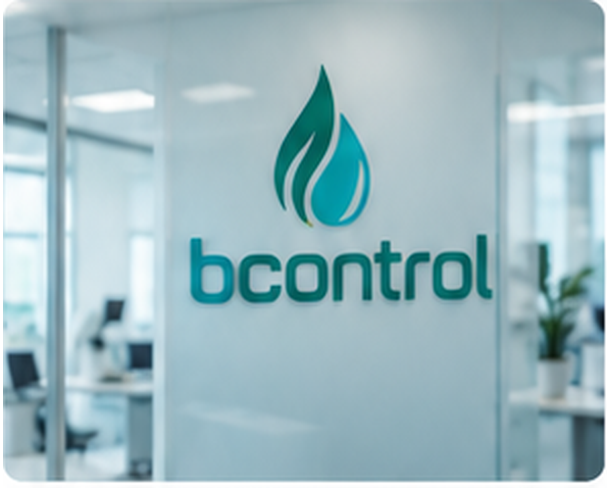
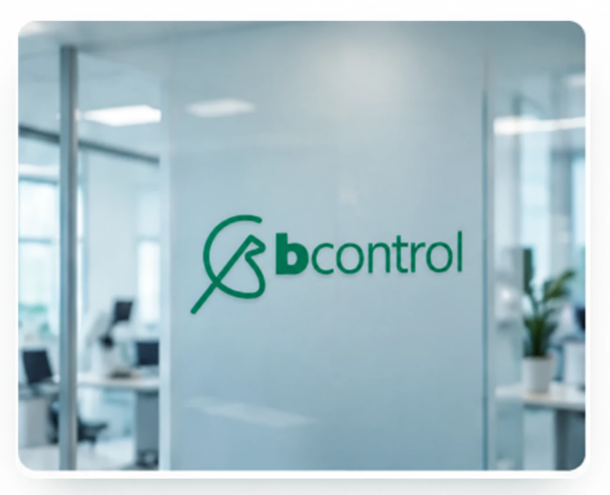
Adicionar upload de imagem pelo painel + trocar foto do escritório
Upload de imagem direto pelo navegador para os 4 campos de foto/logo
(Serviços, Equipe, Clientes, Segmentos), sem precisar de FTP nem
conhecimento técnico — pedido porque quem opera o painel no dia a dia não
tem acesso à hospedagem:

- admin/edit.php: nova função admin_process_image_upload() — valida a
  imagem enviada (GD), corrige rotação EXIF de fotos de celular,
  redimensiona para o tamanho real de exibição por campo (sem ampliar
  imagens menores), e grava .webp + o formato de reserva correto por
  conteúdo (.png preservando transparência para logos/fotos, .jpg com
  fundo branco para os segmentos) — mesmo padrão já usado manualmente nas
  rodadas anteriores.
- Nome de arquivo novo a cada upload (sufixo único) em vez de regravar o
  mesmo nome: evita qualquer problema de cache do navegador sem precisar
  tocar em ASSET_VERSION/código, e os arquivos antigos desse campo são
  apagados automaticamente.
- schema.php: campos image/logo dos 4 conteúdos passam de 'string' (só
  caminho) para o novo tipo 'image' (upload + redimensionamento).
  Continua aceitando edição manual do caminho para quem preferir subir a
  imagem já tratada por FTP.

Também trocada a foto do escritório (seção de Orçamento) pela nova
enviada pelo cliente — assets/escritorio.png/.webp, ?v=5.

Testado localmente: redimensionamento correto, não ampliação de imagem
menor, preservação de transparência em PNG, achatamento para branco no
fallback .jpg, e remoção dos arquivos antigos após a troca.
[…]

diff --git a/index.html b/index.html
@@ -254,7 +254,7 @@
       <div class="field-msg" id="formOrcMsg" role="status"></div>
     </form>
     <div class="office">
-      <picture><source srcset="assets/escritorio.webp?v=4" type="image/webp"><img src="assets/escritorio.png?v=4" alt="Escritório bcontrol" width="610" height="490" loading="lazy"></picture>
+      <picture><source srcset="assets/escritorio.webp?v=5" type="image/webp"><img src="assets/escritorio.png?v=5" alt="Escritório bcontrol" width="610" height="495" loading="lazy"></picture>
       <div class="addr">Rodovia Tapir Rocha, 7000 — Sala 170/174, Viamão/RS · TECNOPUC · <span data-phone-display>(51) 3434-2401</span></div>
     </div>
   </div>

diff --git a/admin/admin.css b/admin/admin.css
@@ -24,6 +24,7 @@ textarea{resize:vertical}
 fieldset{border:1px solid var(--line);border-radius:10px;padding:14px;margin:0}
 fieldset > label{font-size:14px;margin-bottom:10px}
 .hint{font-size:12px;color:#6b7d78;margin:4px 0 0}
+.img-preview{display:block;max-width:160px;max-height:160px;object-fit:contain;border:1px solid var(--line);border-radius:8px;padding:4px;background:#fff;margin-bottom:8px}
 .list-field{border-top:1px dashed var(--line);padding-top:14px;margin-top:6px}
 .list-container{display:flex;flex-direction:column;gap:12px;margin-bottom:10px}
 .list-item{background:var(--paper);border:1px solid var(--line);border-radius:10px;padding:12px}

diff --git a/admin/edit.php b/admin/edit.php
@@ -53,6 +53,110 @@ function admin_handle_upload(array $fileInfo, string $uploadDirRel): ?string {
   return $destRel;
 }
 
+/**
+ * Recebe uma imagem enviada pelo navegador, redimensiona (sem aumentar imagens já
+ * menores), corrige a rotação de fotos de celular (EXIF) e grava duas versões —
+ * .webp (leve) e o formato de fallback (.png, preservando transparência de logos, ou
+ * .jpg) — exatamente como o resto do site já espera via o helper picture() do main.js.
+ * Apaga os arquivos antigos desse mesmo campo (se houver) para não acumular lixo.
+ */
+function admin_process_image_upload(array $fileInfo, string $uploadDirRel, int $maxWidth, string $fallbackExt, ?string $oldBasePath): ?string {
+  if (empty($fileInfo['name']) || ($fileInfo['error'] ?? UPLOAD_ERR_NO_FILE) !== UPLOAD_ERR_OK) return null;
+  if (!function_exists('imagecreatetruecolor')) {
+    throw new RuntimeException('O servidor não tem a extensão de imagens (GD) do PHP habilitada. Peça ao suporte da hospedagem para ativá-la.');
+  }
+  if (!is_uploaded_file($fileInfo['tmp_name'])) {
+    throw new RuntimeException('Upload inválido.');
+  }
+
+  $info = @getimagesize($fileInfo['tmp_name']);
+  if (!$info) {
+    throw new RuntimeException('O arquivo enviado não é uma imagem válida.');
+  }
+  $mime = $info['mime'];
+  switch ($mime) {
+    case 'image/jpeg': $im = @imagecreatefromjpeg($fileInfo['tmp_name']); break;
+    case 'image/png': $im = @imagecreatefrompng($fileInfo['tmp_name']); break;
+    case 'image/webp': $im = @imagecreatefromwebp($fileInfo['tmp_name']); break;
+    case 'image/gif': $im = @imagecreatefromgif($fileInfo['tmp_name']); break;
+    default:
+      throw new RuntimeException('Formato de imagem não suportado. Envie um arquivo JPG, PNG ou WEBP.');
+  }
+  if (!$im) {
+    throw new RuntimeException('Não foi possível ler a imagem enviada (arquivo corrompido?).');
+  }
+
+  // Corrige fotos de celular giradas (comum em JPEG com metadado de orientação).
+  if ($mime === 'image/jpeg' && function_exists('exif_read_data')) {
+    $exif = @exif_read_data($fileInfo['tmp_name']);
+    $orientation = $exif['Orientation'] ?? 1;
+    if ($orientation === 3) { $im = imagerotate($im, 180, 0); }
+    elseif ($orientation === 6) { $im = imagerotate($im, -90, 0); }
+    elseif ($orientation === 8) { $im = imagerotate($im, 90, 0); }
+  }
+
+  imagealphablending($im, true);
+  imagesavealpha($im, true);
+
+  $w = imagesx($im);
+  $h = imagesy($im);
+  if ($w > $maxWidth) {
+    $newW = $maxWidth;
+    $newH = (int)round($h * $maxWidth / $w);
+    $resized = imagecreatetruecolor($newW, $newH);
+    imagealphablending($resized, false);
+    imagesavealpha($resized, true);
+    imagecopyresampled($resized, $im, 0, 0, 0, 0, $newW, $newH, $w, $h);
+    imagedestroy($im);
+    $im = $resized;
+  }
+
+  $origName = basename($fileInfo['name']);
+  $safeBase = preg_replace('/[^a-zA-Z0-9_\-]/', '-', (string)pathinfo($origName, PATHINFO_FILENAME));
+  $safeBase = trim((string)$safeBase, '-');
+  if ($safeBase === '') $safeBase = 'imagem';
+  $safeBase .= '-' . substr(md5((string)microtime(true) . random_int(0, 999999)), 0, 8);
+
+  $destDirAbs = rtrim(SITE_ROOT . '/' . $uploadDirRel, '/');
+  if (!is_dir($destDirAbs)) mkdir($destDirAbs, 0775, true);
+
+  $webpAbs = $destDirAbs . '/' . $safeBase . '.webp';
+  $fallbackAbs = $destDirAbs . '/' . $safeBase . '.' . $fallbackExt;
+
+  if (!imagewebp($im, $webpAbs, 80)) {
+    imagedestroy($im);
+    throw new RuntimeException('Falha ao gerar a versão .webp da imagem no servidor.');
+  }
+
+  if ($fallbackExt === 'jpg') {
+    // JPEG não tem transparência: achata sobre fundo branco antes de salvar.
+    $flat = imagecreatetruecolor(imagesx($im), imagesy($im));
+    $white = imagecolorallocate($flat, 255, 255, 255);
+    imagefill($flat, 0, 0, $white);
+    imagealphablending($flat, true);
+    imagecopy($flat, $im, 0, 0, 0, 0, imagesx($im), imagesy($im));
+    $ok = imagejpeg($flat, $fallbackAbs, 85);
+    imagedestroy($flat);
+  } else {
+    $ok = imagepng($im, $fallbackAbs, 6);
+  }
+  imagedestroy($im);
+
+  if (!$ok) {
+    throw new RuntimeException('Falha ao gravar a imagem no servidor (verifique permissões de escrita em ' . $uploadDirRel . ').');
+  }
+
+  // Remove os arquivos antigos desse mesmo campo, se existiam.
+  if ($oldBasePath) {
+    foreach (['webp', $fallbackExt] as $oldExt) {
+      $oldAbs = SITE_ROOT . '/' . $oldBasePath . '.' . $oldExt;
+      if (is_file($oldAbs)) @unlink($oldAbs);
+    }
+  }
+
+  return rtrim($uploadDirRel, '/') . '/' . $safeBase;
+}
+
 /** Reorganiza a bagunça clássica do $_FILES multidimensional em algo navegável como o $_POST. */
 function admin_reshape_files(array $filesNode): array {
   if (!isset($filesNode['name'])) return [];
@@ -90,6 +194,14 @@ function build_field_value(array $field, $postValue, $filesValue) {
       }
       if ($destRelative) return $destRelative;
       return trim((string)(is_array($postValue) ? '' : ($postValue ?? '')));
+    case 'image':
+      $destRelative = null;
+      $oldValue = trim((string)(is_array($postValue) ? '' : ($postValue ?? '')));
+      if (is_array($filesValue) && !empty($filesValue['name'])) {
+        $destRelative = admin_process_image_upload($filesValue, $field['uploadDir'], $field['maxWidth'], $field['fallbackExt'], $oldValue !== '' ? $oldValue : null);
+      }
+      if ($destRelative) return $destRelative;
+      return $oldValue;
     case 'object':
       $out = [];
       foreach ($field['fields'] as $sub) {
@@ -183,6 +295,19 @@ function render_field(array $field, $value, string $dataPath, string $uploadPath
         . render_text_input($name, $value)
         . '<p class="hint">Caminho atual do arquivo. ' . h($field['hint'] ?? '') . ' Para substituir, selecione um novo PDF abaixo:</p>'
         . '<input type="file" name="' . h($uploadName) . '" accept="' . h($field['accept'] ?? '') . '">'
+        . '</div>';
+    case 'image':
+      $uploadName = $uploadPath . '[' . $field['name'] . ']';
+      $preview = '';
+      if ($value) {
+        $previewSrc = '../' . h($value) . '.' . h($field['fallbackExt']) . '?v=' . time();
+        $preview = '<img src="' . $previewSrc . '" alt="" class="img-preview">';
+      }
+      return '<div class="field">' . $label
+        . $preview
+        . render_text_input($name, $value)
+        . '<p class="hint">Caminho atual da imagem. Para trocar, selecione um novo arquivo (JPG, PNG ou WEBP) — o site gera a versão otimizada automaticamente:</p>'
+        . '<input type="file" name="' . h($uploadName) . '" accept="image/jpeg,image/png,image/webp">'
         . '</div>';
     case 'object':
       $inner = '';

diff --git a/admin/schema.php b/admin/schema.php
@@ -65,7 +65,7 @@ return [
         ['name' => 'norm', 'label' => 'Norma/legislação', 'type' => 'string'],
       ]],
       ['name' => 'chips', 'label' => 'Público-alvo (chips)', 'type' => 'list', 'itemType' => 'string'],
-      ['name' => 'image', 'label' => 'Imagem (caminho em assets/, sem extensão)', 'type' => 'string', 'hint' => 'Ex.: assets/serv_agua — o site usa .webp com fallback .png automaticamente. Para trocar a foto, envie o novo arquivo por FTP/File Manager mantendo o mesmo nome.'],
+      ['name' => 'image', 'label' => 'Foto do serviço', 'type' => 'image', 'uploadDir' => 'assets', 'maxWidth' => 900, 'fallbackExt' => 'png'],
       ['name' => 'imageAlt', 'label' => 'Texto alternativo da imagem', 'type' => 'string'],
     ],
   ],
@@ -79,7 +79,7 @@ return [
     'fields' => [
       ['name' => 'name', 'label' => 'Nome', 'type' => 'string'],
       ['name' => 'role', 'label' => 'Cargo', 'type' => 'string'],
-      ['name' => 'image', 'label' => 'Imagem (caminho em assets/, sem extensão)', 'type' => 'string', 'hint' => 'Para trocar a foto, envie o novo arquivo por FTP/File Manager mantendo o mesmo nome.'],
+      ['name' => 'image', 'label' => 'Foto', 'type' => 'image', 'uploadDir' => 'assets', 'maxWidth' => 700, 'fallbackExt' => 'png'],
     ],
   ],
 
@@ -104,7 +104,7 @@ return [
     'itemLabelField' => 'name',
     'fields' => [
       ['name' => 'name', 'label' => 'Nome', 'type' => 'string'],
-      ['name' => 'logo', 'label' => 'Logo (caminho em assets/, sem extensão)', 'type' => 'string', 'hint' => 'Para trocar o logo, envie o novo arquivo por FTP/File Manager mantendo o mesmo nome.'],
+      ['name' => 'logo', 'label' => 'Logo', 'type' => 'image', 'uploadDir' => 'assets', 'maxWidth' => 500, 'fallbackExt' => 'png'],
     ],
   ],
 
@@ -116,7 +116,7 @@ return [
     'itemLabelField' => 'label',
     'fields' => [
       ['name' => 'label', 'label' => 'Nome do segmento', 'type' => 'string'],
-      ['name' => 'image', 'label' => 'Imagem (caminho em assets/, sem extensão)', 'type' => 'string', 'hint' => 'Para trocar a foto, envie o novo arquivo por FTP/File Manager mantendo o mesmo nome.'],
+      ['name' => 'image', 'label' => 'Foto do segmento', 'type' => 'image', 'uploadDir' => 'assets', 'maxWidth' => 900, 'fallbackExt' => 'jpg'],
     ],
   ],
 

diff --git a/RELATORIO.md b/RELATORIO.md
@@ -132,10 +132,10 @@ que algo é salvo, a versão anterior do arquivo fica guardada automaticamente e
 pode ser editado diretamente (é texto simples) e publicado por FTP/File Manager — útil
 para quem já tem prática com isso.
 
-**Trocar fotos/logos:** o painel edita texto e o PDF de documentos, mas a troca de fotos
-(equipe, segmentos, clientes, serviços) continua sendo por FTP/File Manager, mantendo o
-mesmo nome de arquivo — porque essas imagens passam por um preparo prévio (redimensionar e
-gerar a versão `.webp` leve) que não dá para fazer com segurança só pelo navegador.
+**Trocar fotos/logos:** também dá para fazer direto pelo painel (equipe, segmentos,
+clientes, serviços) — ele redimensiona e otimiza a imagem automaticamente (ver Rodada 10).
+Continua existindo a opção de subir por FTP/File Manager uma imagem já tratada, para quem
+preferir.
 
 **Cache do navegador ao trocar `assets/*`, `css/style.css` ou `js/main.js`:** esses
 arquivos são referenciados com `?v=N` (ex.: `logo.png?v=4`) — é assim que o navegador sabe
@@ -294,6 +294,37 @@ externo, igual ao antigo `auth_data.json`, que foi removido):
 - Testado localmente: login com o usuário inicial, criação de usuário novo + login com
   ele, remoção de usuário, proteção contra remover o último/o próprio usuário logado, e
   troca de senha — tudo funcionando.
+
+## Rodada 10 — upload de imagem direto pelo painel (sem precisar de FTP)
+
+Até aqui, trocar uma foto (equipe, segmentos, clientes, serviços) exigia acesso à
+hospedagem (FTP/File Manager) e conhecimento do pipeline de otimização (gerar `.webp` +
+redimensionar). Como quem vai operar o painel no dia a dia não tem (nem deve precisar ter)
+acesso à hospedagem, os campos de imagem desses 4 conteúdos (Serviços, Equipe, Clientes,
+Segmentos) agora aceitam **upload direto pelo navegador**:
+
+- Mostra uma prévia da imagem atual antes de trocar.
+- Ao enviar um arquivo novo (JPG, PNG ou WEBP), o servidor: corrige a rotação de fotos de
+  celular (quando o aparelho grava a informação de orientação), redimensiona para o
+  tamanho real de exibição (sem aumentar imagens que já são menores) e gera as duas
+  versões que o site usa — `.webp` leve e o formato de reserva (`.png`, preservando
+  transparência de logos, ou `.jpg` para os segmentos) — exatamente como as imagens já
+  tratadas manualmente nas rodadas anteriores.
+- O nome do arquivo final é gerado automaticamente (com um sufixo único), e os arquivos
+  antigos desse mesmo campo são apagados — sem acumular lixo nem precisar mexer em
+  `ASSET_VERSION`/cache do navegador, porque o nome novo já força o carregamento fresco.
+- Continua dando pra editar o caminho manualmente (sem subir arquivo), para quem preferir
+  seguir subindo a imagem já tratada por FTP, como antes.
+- Depende da extensão **GD do PHP** (padrão em praticamente toda hospedagem cPanel); se
+  não estiver disponível, o painel avisa com uma mensagem clara em vez de falhar calado.
+
+**Testado localmente**: upload com redimensionamento correto (1200×900 → 700×525 para
+Equipe), não ampliação de imagem menor que o tamanho máximo, preservação de transparência
+em logo PNG, achatamento correto para fundo branco no fallback `.jpg` dos Segmentos, e
+remoção dos arquivos antigos após a troca.
+
+Aproveitada a rodada para trocar também a foto do escritório (seção de Orçamento) pela
+nova enviada pelo cliente (`assets/escritorio.png`/`.webp`, versão `?v=5`).
 
 ## Rodada 8 — formulário de orçamento passou a usar envio próprio (`envio.php`)
 

diff --git a/INSTRUCOES_PUBLICACAO.md b/INSTRUCOES_PUBLICACAO.md
@@ -36,7 +36,10 @@ em último caso, **775**).
 4. Qualquer pessoa logada pode editar FAQ, serviços, equipe, depoimentos, clientes,
    segmentos, documentos (incluindo subir PDF novo) e as configurações gerais do site
    (e-mails por setor, WhatsApp, redes sociais etc.) direto pelo navegador, sem mexer em
-   código.
+   código. **Fotos e logos (equipe, segmentos, clientes, serviços) também podem ser
+   trocados direto pelo painel** — é só escolher o novo arquivo (JPG, PNG ou WEBP) que o
+   site redimensiona e otimiza sozinho. Isso depende da extensão **GD do PHP**, que vem
+   habilitada por padrão em praticamente toda hospedagem cPanel.
 
 ## 4. Antes de considerar "no ar de vez"
 
@@ -70,6 +73,10 @@ produção"**. Os pontos principais:
   `bcontrol2026`); entre, troque a senha em "Alterar senha" e recrie as demais contas em
   "Usuários". Se você tem outra conta ativa no painel, é mais simples só pedir pra ela
   entrar em "Usuários" e remover/recriar a sua.
+- **"Ao subir uma foto no painel, aparece erro dizendo que falta a extensão GD."** Peça
+  para o suporte da hospedagem habilitar a extensão **GD** do PHP (é padrão, raramente
+  vem desligada). Enquanto isso, dá para subir a imagem já tratada por FTP/File Manager e
+  só apontar o caminho no campo de texto do painel.
 - **"O formulário de orçamento não chega por e-mail."** O envio usa a função `mail()`
   nativa do PHP (`envio.php`), que funciona por padrão em praticamente toda hospedagem
   cPanel. Se mesmo assim não chegar: confirme com o suporte da hospedagem que a função
